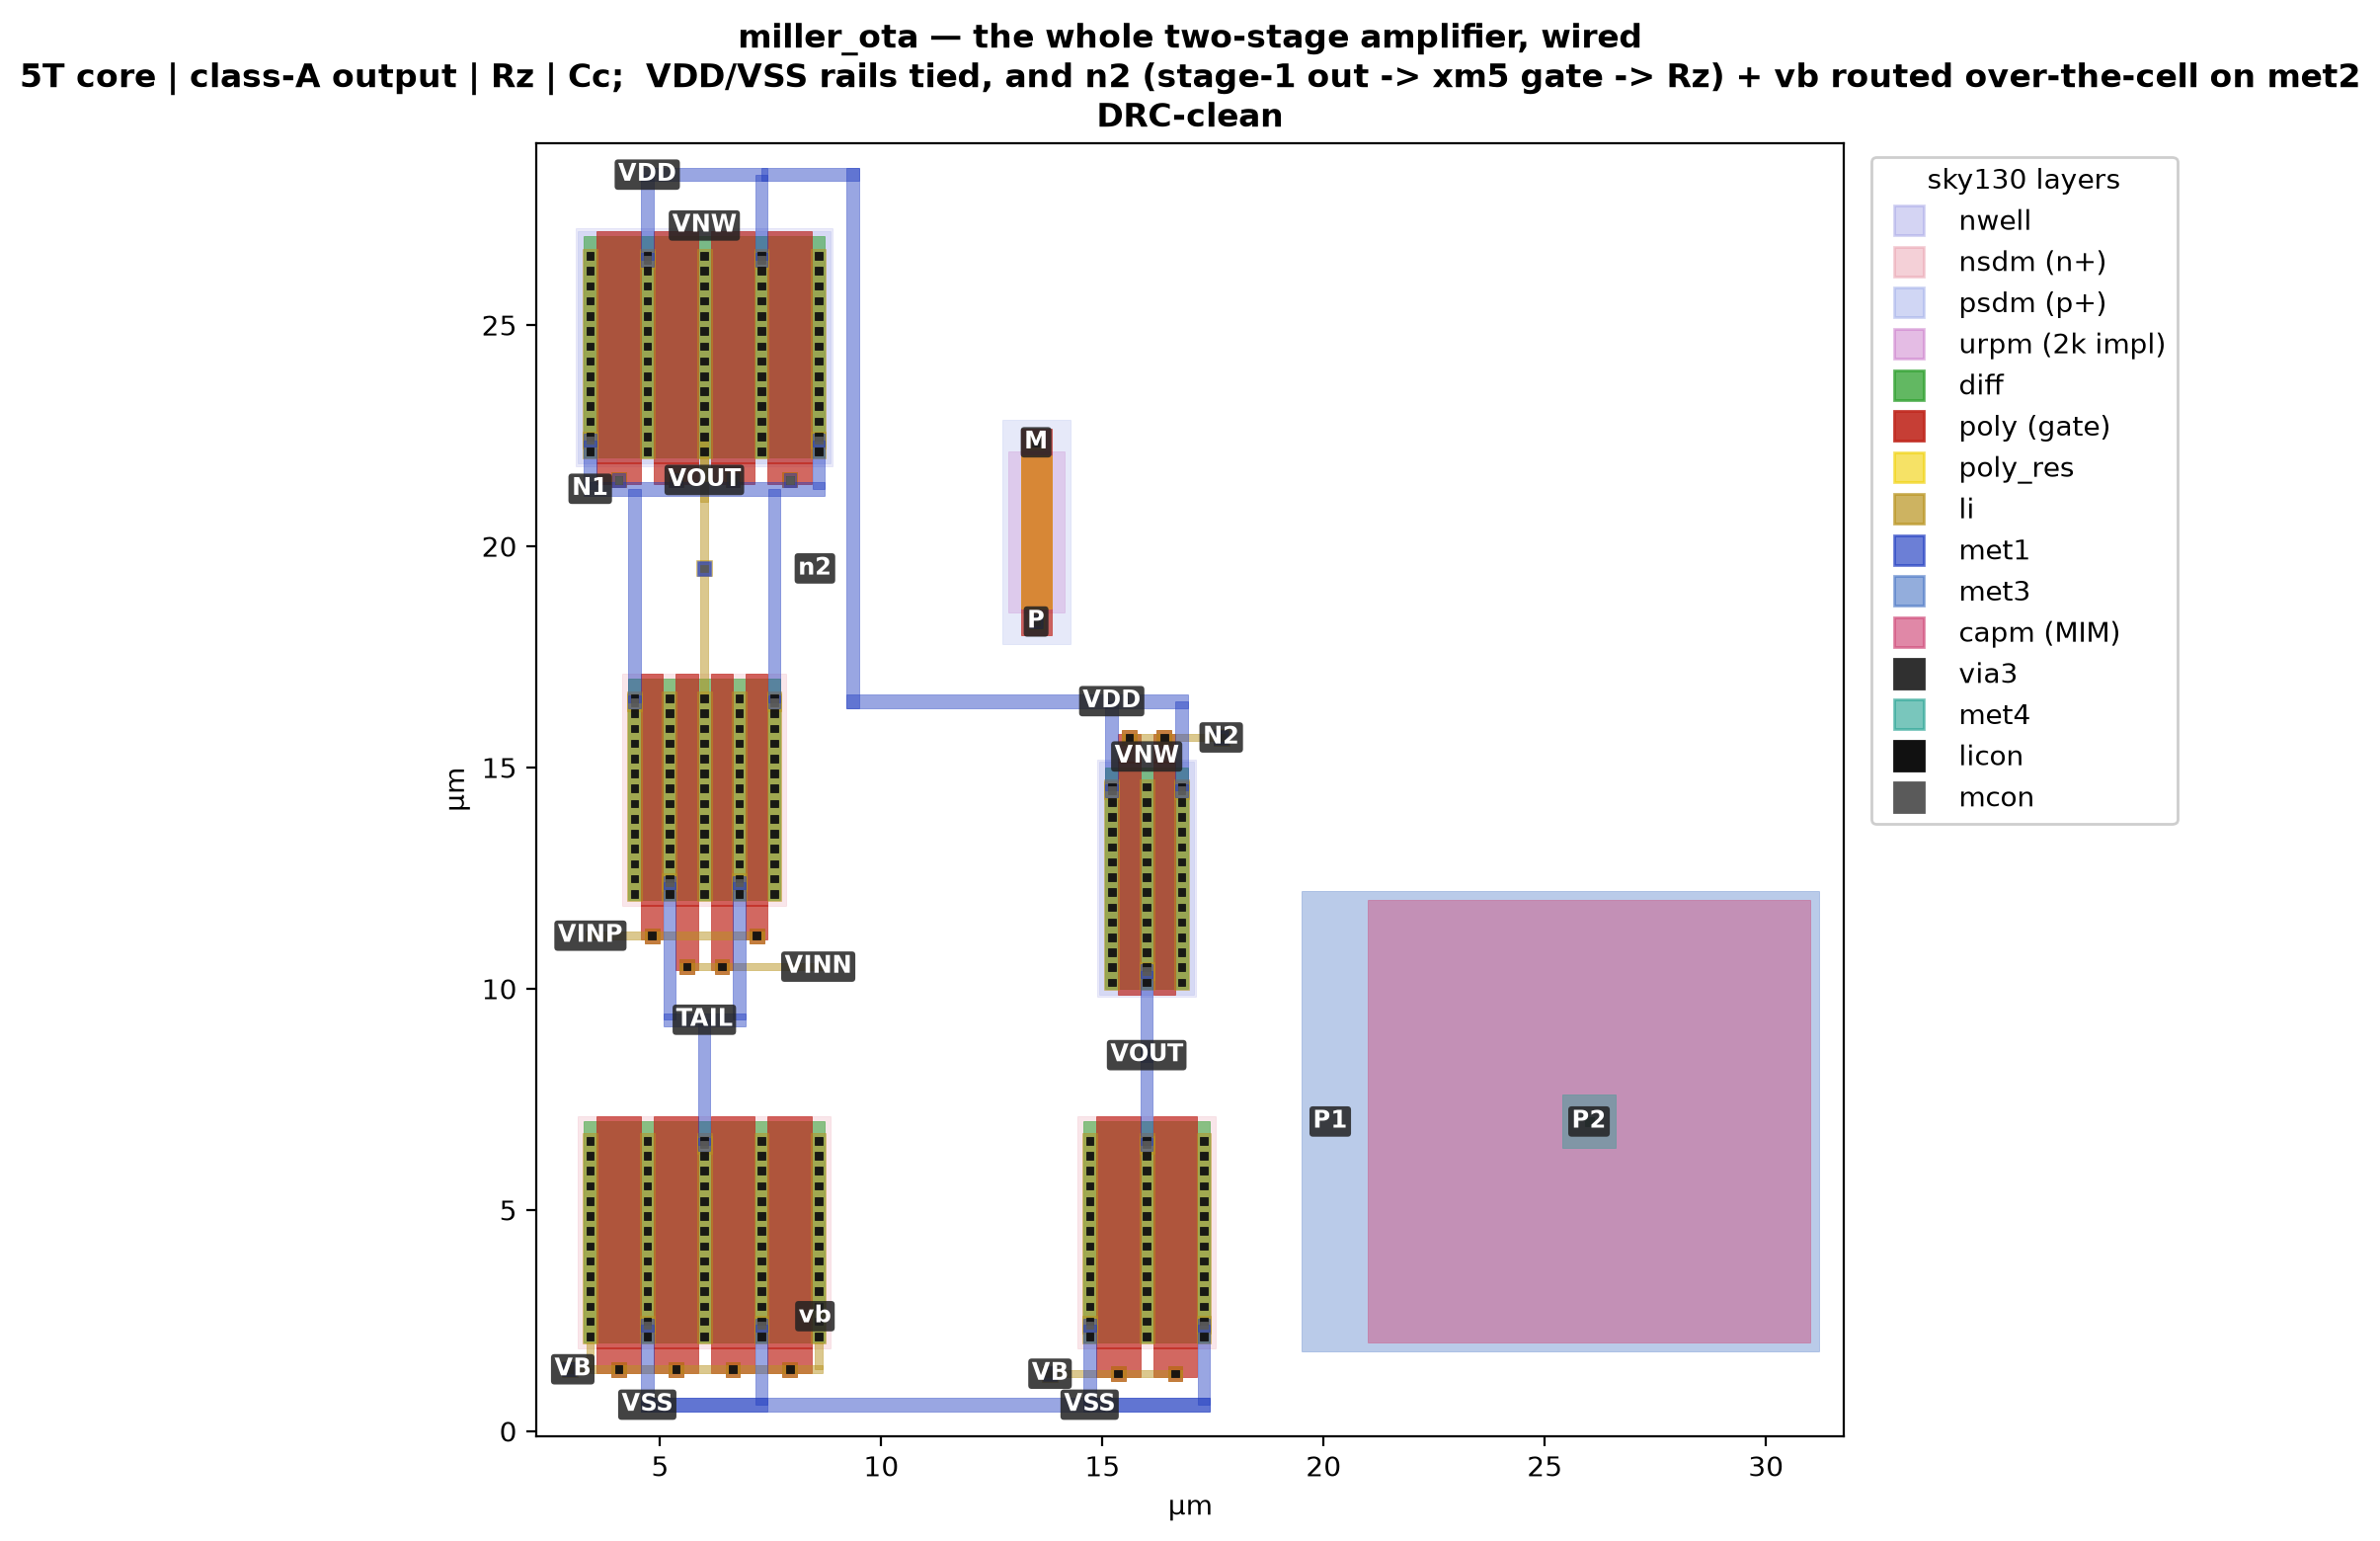
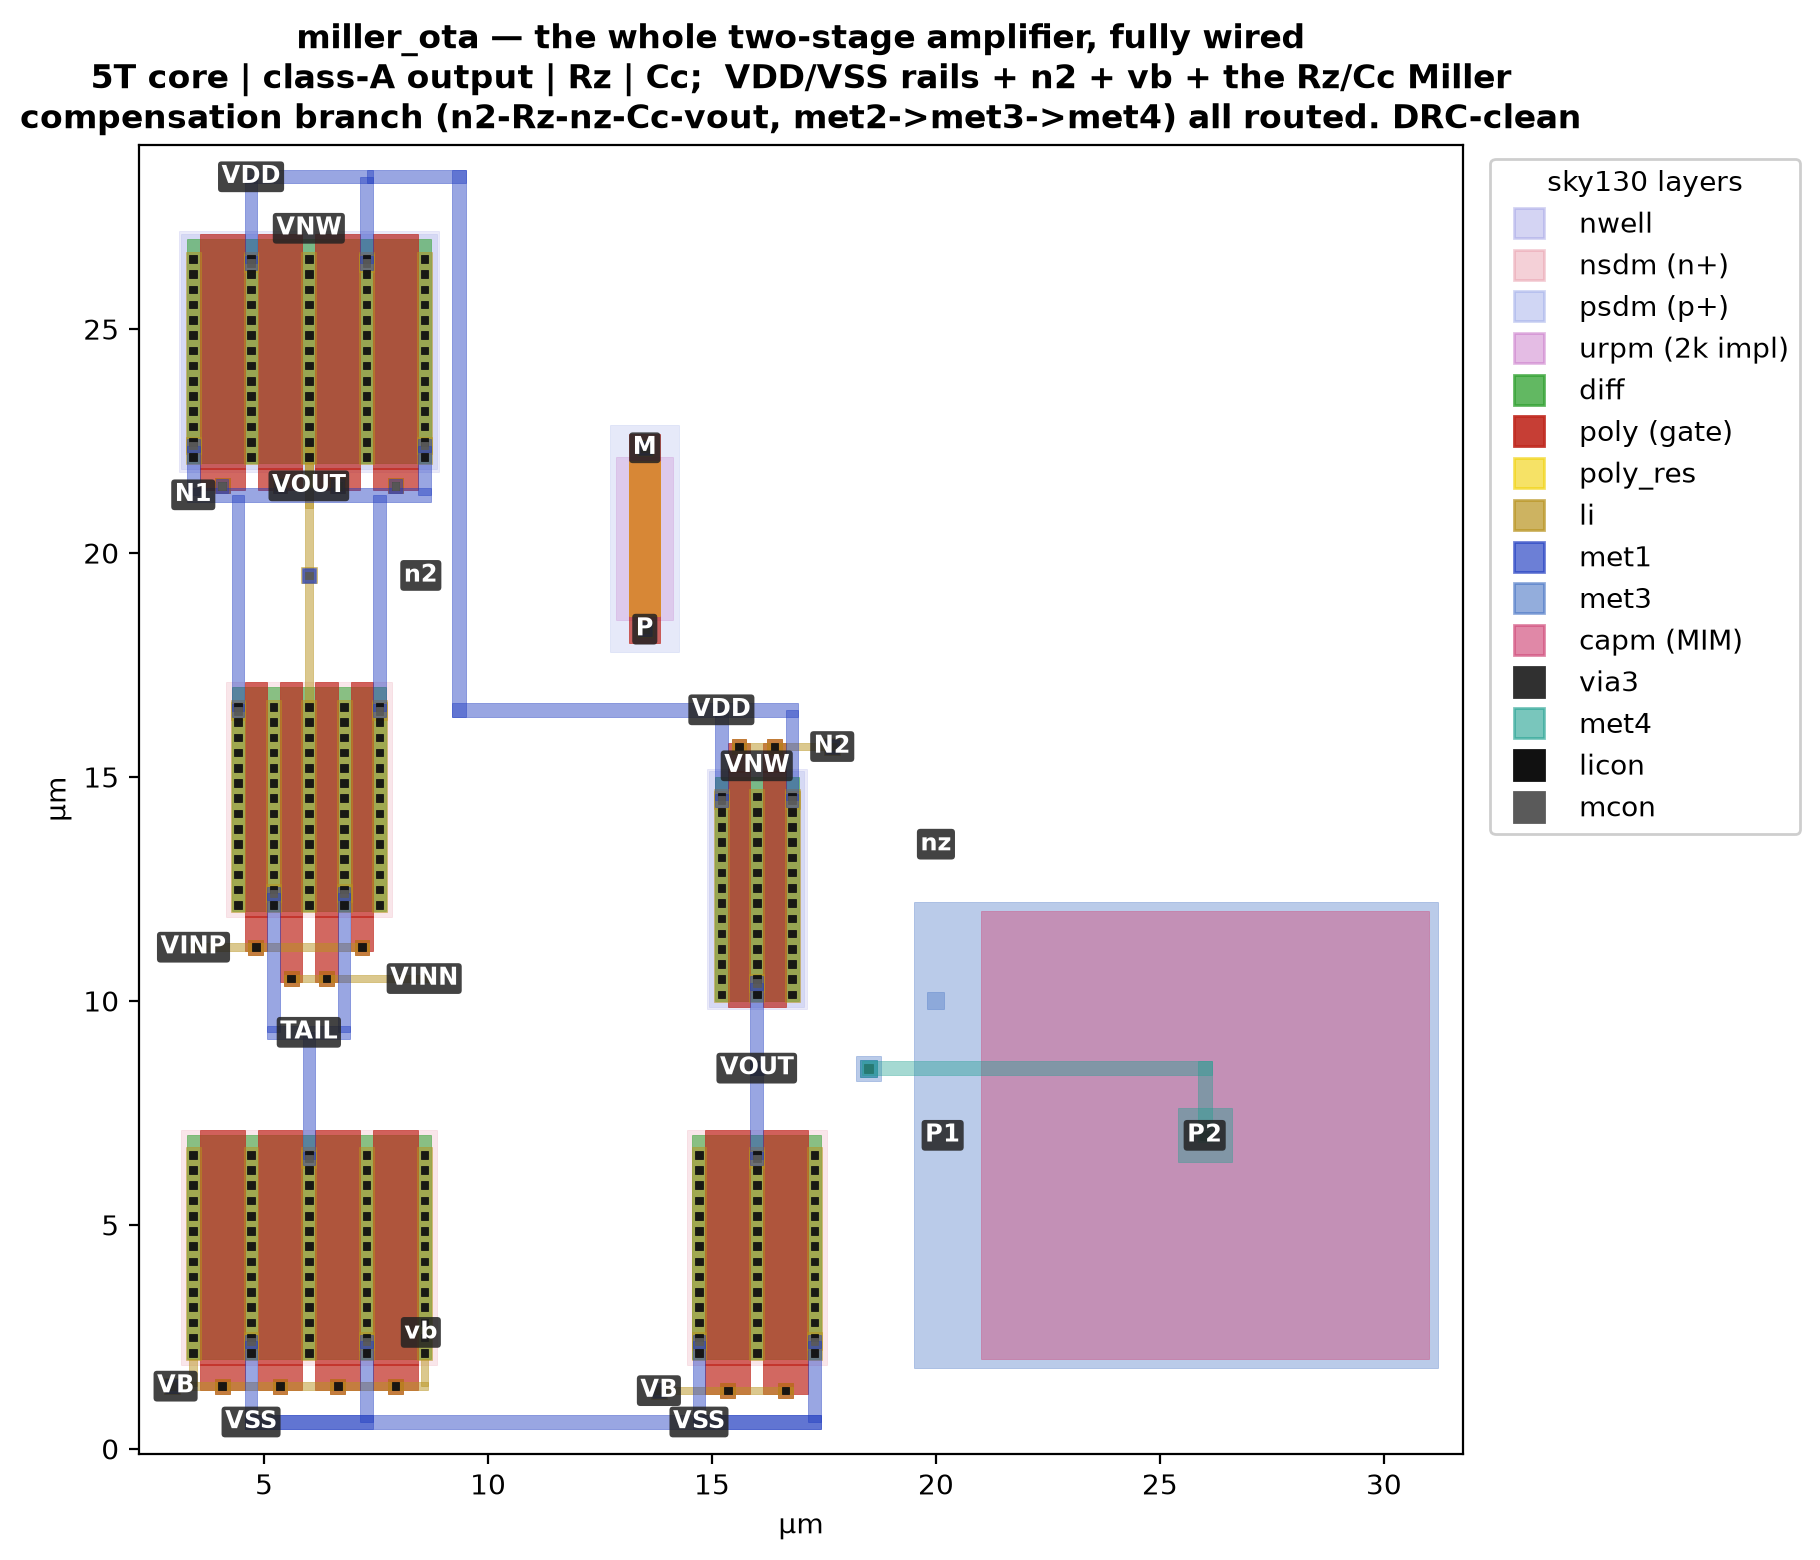
Phase 2: close the Miller compensation branch -- the amp is fully wired
The Rz/Cc compensation branch is now routed, so every net of miller_ota
is connected (n2-Rz-nz-Cc-vout, vb, and the rails), DRC-clean:
  - nz: Rz.M (li) taps up to met2, crosses to the cap, and drops onto the
        Cc bottom plate (met3 P1) through a met2->met3 via2
  - vout: out_stage VOUT (met1) climbs an ISOLATED met2->met3->met4 stack
          placed left of the plate (so it never lands on the met3 bottom
          plate) and crosses on met4 to the Cc top plate (P2)

The compensation branch needed the two metals above met2, so device.py
gains via_met2_met3 and via_met3_met4. Lesson: an isolated upper-metal
via island needs a min-area met3 patch (m3.6, 0.38^2 was too small).

Every net routed; what remains is signoff (whole-amp post-extract, gated
on the KLayout deep-mode extractor erroring on the big flat cell), body
ties, and full-W production sizing. README figure + docs/layout.md + PLAN
updated. verify.py green: 13 cells DRC-clean, 7 LVS-matched, 2 passives
extract-verified.

Claude-Session: https://claude.ai/code/session_01YZz61HuW2quRqnQmP8mkSx

diff --git a/layout/build.py b/layout/build.py
@@ -489,6 +489,25 @@ def build_miller_ota():
     D.strap(top, 2.95 - 0.16, 2.6 - 0.16, 13.815 + 0.16, 2.6 + 0.16, D.MET2)    # across
     D.strap(top, 13.815 - 0.16, 1.3 - 0.16, 13.815 + 0.16, 2.6 + 0.16, D.MET2)  # down
     D.label(top, "vb", 8.5, 2.6, layer=D.MET2LBL)
+
+    # --- the Miller compensation branch: n2 -Rz- nz -Cc- vout -------------
+    # nz: Rz.M (li) up to met2, over to the cap, via2 down onto the Cc bottom
+    # plate (met3 P1, in the plate region left of capm)
+    D.via_li_met2(top, 13.5, 22.35)
+    D.strap(top, 13.5 - 0.16, 22.35 - 0.16, 20.0 + 0.16, 22.35 + 0.16, D.MET2)  # right
+    D.strap(top, 20.0 - 0.16, 10.0 - 0.16, 20.0 + 0.16, 22.35 + 0.16, D.MET2)   # down
+    D.via_met2_met3(top, 20.0, 10.0)                                            # -> P1
+    D.label(top, "nz", 20.0, 13.5, layer=D.MET2LBL)
+    # vout: out_stage VOUT (met1) up to met2, an ISOLATED met2->met3->met4 stack
+    # left of the cap (so it never touches the met3 P1 plate), then met4 across
+    # to the Cc top plate (P2)
+    D.via2(top, 16.0, 8.5)                                          # met1 -> met2
+    D.strap(top, 16.0 - 0.16, 8.5 - 0.16, 18.5 + 0.16, 8.5 + 0.16, D.MET2)      # to stack
+    D.via_met2_met3(top, 18.5, 8.5)
+    D.via_met3_met4(top, 18.5, 8.5)
+    D.strap(top, 18.5 - 0.28, 8.5 - 0.28, 18.5 + 0.28, 8.5 + 0.28, D.MET3)      # met3 min area
+    D.strap(top, 18.5 - 0.16, 8.5 - 0.16, 26.0 + 0.16, 8.5 + 0.16, D.MET4)      # met4 right
+    D.strap(top, 26.0 - 0.16, 7.0 - 0.16, 26.0 + 0.16, 8.5 + 0.16, D.MET4)      # down to P2
     top.flatten()
     lib = gdstk.Library()
     lib.add(top)

diff --git a/layout/device.py b/layout/device.py
@@ -156,6 +156,21 @@ def via_li_met2(cell, xc, yc):
     via2(cell, xc, yc)
 
 
+def via_met2_met3(cell, xc, yc):
+    """met2 <-> met3 via (via2, 69/44 = 0.2), with met2/met3 pads enclosing it by
+    0.09 (via2.5 wants 0.085 on m3)."""
+    _r(cell, VIA2, xc - 0.1, yc - 0.1, xc + 0.1, yc + 0.1)
+    _r(cell, MET2, xc - 0.19, yc - 0.19, xc + 0.19, yc + 0.19)
+    _r(cell, MET3, xc - 0.19, yc - 0.19, xc + 0.19, yc + 0.19)
+
+
+def via_met3_met4(cell, xc, yc):
+    """met3 <-> met4 via (via3, 70/44 = 0.2), pads enclosing by 0.09 (via3.5)."""
+    _r(cell, VIA3, xc - 0.1, yc - 0.1, xc + 0.1, yc + 0.1)
+    _r(cell, MET3, xc - 0.19, yc - 0.19, xc + 0.19, yc + 0.19)
+    _r(cell, MET4, xc - 0.19, yc - 0.19, xc + 0.19, yc + 0.19)
+
+
 def via2(cell, xc, yc):
     """met1 -> met2 via: a VIA (0.15 exact) capped by a met1 pad below and a
     met2 pad above, each enclosing it by 0.085 (0.32 sq). The caller's own met1

diff --git a/layout/plot.py b/layout/plot.py
@@ -105,7 +105,7 @@ if __name__ == "__main__":
            "bottom plate met3 (P1), top plate capm (P2) contacted up via3->met4;"
            " 10x10 um -> ~200 fF\nDRC-clean + extraction-verified: cap_mim "
            "C=2e-13 F", nets=True)
-    render("miller_ota", "miller_ota — the whole two-stage amplifier, wired\n"
-           "5T core | class-A output | Rz | Cc;  VDD/VSS rails tied, and n2 "
-           "(stage-1 out -> xm5 gate -> Rz) + vb routed over-the-cell on met2\n"
-           "DRC-clean", nets=True)
+    render("miller_ota", "miller_ota — the whole two-stage amplifier, fully "
+           "wired\n5T core | class-A output | Rz | Cc;  VDD/VSS rails + n2 + vb "
+           "+ the Rz/Cc Miller\ncompensation branch (n2-Rz-nz-Cc-vout, "
+           "met2->met3->met4) all routed. DRC-clean", nets=True)

diff --git a/docs/layout.md b/docs/layout.md
@@ -109,7 +109,7 @@ local — so nothing has to cross. It extracts to two W=10 PMOS, xm3 diode-tied 
 | `out_stage` (miller stage 2: PMOS CS + NMOS sink, class-A) | **CLEAN** | **MATCH** |
 | `res_rz` (xhigh_po poly resistor, ~10 kΩ) | **CLEAN** | **R=10 kΩ ✓** (extract) |
 | `cap_cc` (MIM cap on met3, ~200 fF) | **CLEAN** | **C=200 fF ✓** (extract) |
-| `miller_ota` (whole amp: 4 blocks + rails/n2/vb wired) | **CLEAN** | — (assembly) |
+| `miller_ota` (whole amp: 4 blocks, **fully wired**) | **CLEAN** | — (assembly) |
 
 **All three sub-blocks of the 5T OTA — the NMOS input pair, the PMOS mirror
 load, and the NMOS tail/bias — are laid out and verified as the right circuit,
@@ -228,32 +228,41 @@ is exactly what matters for devices whose value is the spec.
   clean gap between them;
 - **`n2`**, the inter-stage signal, carries the stage-1 output to the `xm5` gate
   *and* to `Rz.P` (the compensation tap);
-- **`vb`**, the shared bias, ties the stage-1 tail diode to the stage-2 sink gate.
+- **`vb`**, the shared bias, ties the stage-1 tail diode to the stage-2 sink gate;
+- the whole **`Rz`/`Cc` Miller compensation branch** — `n2`–`Rz`–`nz`–`Cc`–`vout`.
 
 The signal nets were the interesting part. Each block's `n2`/`vb`/`N2`/`VB` pins
 are thin (0.17 µm) `li` buried mid-cell — they were never brought to an abutment
-edge — so rather than re-open the blocks, `n2` and `vb` are **routed *over* the
-cells on met2**, which is free above these `li`/`met1` blocks: a via stack taps
-each pin up (li → met1 → met2), the wire runs across on met2, and another stack
-drops down at the far pin. The whole wired cell is **DRC-clean**. This is the
-*"a block does not compose for free"* lesson from the 5T core, one level up — and
-the over-the-cell metal layer is the answer to it at amplifier scale.
+edge — so rather than re-open the blocks, the signals are **routed *over* the
+cells on the upper metals**, which are free above these `li`/`met1` blocks: a via
+stack taps each pin up (li → met1 → met2), the wire runs across on met2, and
+another stack drops down at the far pin. The compensation branch needed the two
+layers *above* that: `nz` taps `Rz.M` up to met2 and drops onto the `Cc` bottom
+plate through a **met2→met3 (via2)**, and `vout` climbs an **isolated
+met2→met3→met4 stack** (placed left of the plate so it never lands on the met3
+bottom plate) and crosses on met4 to the `Cc` top plate. The whole wired cell is
+**DRC-clean**. This is the *"a block does not compose for free"* lesson from the
+5T core, one level up — and the over-the-cell metal stack is the answer to it at
+amplifier scale.
 
-**What's still open on the wiring.** The active signal path (`n2`, `vb`) and the
-rails are routed; the **`Rz`/`Cc` compensation branch** is not yet closed — that
-needs the cap's plates (`Cc` is on met3/met4) tied to `Rz.M` (`nz`) and to `vout`
-through a met2→met3→met4 via stack. And a **whole-amp post-extract** LVS remains
-the signoff (the passives block a device *compare*, and KLayout's deep-mode
-extractor errors on the large flattened multi-block cell — a tooling quirk, not a
-geometry one; every sub-block is individually verified).
+**What remains is the signoff, not the wiring.** Every net of the amplifier is
+routed. A **whole-amp post-extract** LVS is the remaining check — and it is a
+tooling matter, not a geometry one: the passives block a device *compare* (as
+above), and KLayout's deep-mode extractor errors on the large flattened
+multi-block cell. Every sub-block is individually DRC-clean and LVS/extraction-
+verified.
 
 ## What's next
 
-- **Close the compensation branch** — tie `Rz.M` (`nz`) to the `Cc` bottom plate
-  and the `Cc` top plate to `vout`, through a met2 → met3 → met4 via stack (the
-  cap's plates live on the upper metals). The active path (`n2`, `vb`) and the
-  rails are already wired.
+The amplifier is drawn and **fully wired** — every net routed, DRC-clean. What
+remains is signoff and realism, not connectivity:
+
 - **Post-extraction re-simulation** — run the benches again on the parasitic-
-  extracted netlist, the number that actually decides whether the silicon works.
+  extracted netlist, the number that actually decides whether the silicon works
+  (gated on the KLayout deep-mode extractor, which errors on the large flattened
+  cell — likely a hierarchical or per-block extraction instead).
 - **Rail-tie guard rings** (substrate → VSS, nwell → VDD) replace the bulk
   *ports* with real body ties.
+- **Production sizing** — the blocks stand in at scaled W (e.g. W = 10 for the
+  W = 60 output device, ~200 fF for the 4 pF `Cc`); a real tapeout redraws them
+  at full size, which mostly means more fingers / larger plates, not new topology.

diff --git a/README.md b/README.md
@@ -30,9 +30,9 @@ is well under way** — *every device of the two-stage amplifier is now drawn an
 verified*: both active stages (the **5T core** and the **class-A output**) are
 routed and **LVS-clean**, and both passives (the **nulling resistor** and the
 **MIM compensation cap**) are drawn and **extraction-verified** at value; the
-four blocks are then **assembled and wired into the amplifier**
-([see below](#phase-2--layout-the-whole-amplifier-drawn)) — rails, the `n2`
-inter-stage signal and the shared bias routed, DRC-clean. `layout/verify.py`
+four blocks are then **assembled and fully wired into the amplifier**
+([see below](#phase-2--layout-the-whole-amplifier-drawn)) — every net routed
+(rails, `n2`, `vb`, and the whole `Rz`/`Cc` compensation branch), DRC-clean. `layout/verify.py`
 runs the whole DRC + LVS + extract regression green — 12 cells DRC-clean, 7
 LVS-matched, 2 passives extract-verified ([`docs/layout.md`](docs/layout.md)).
 
@@ -253,25 +253,25 @@ It went device → matched pair → stage → amplifier:
 Full blow-by-blow, every layer-coloured figure, and the routing schemes are in
 [`docs/layout.md`](docs/layout.md).
 
-**Next:** close the `Rz`/`Cc` **compensation branch** (the cap's plates live on
-the upper metals — a met2→met3→met4 via stack to `nz` and `vout`) → a whole-amp
-**post-extraction re-simulation**, the number that decides whether the silicon
-works → rail-tie guard rings. A wider-ICMR input (rail-to-rail / complementary
-pair) also stays on the shelf as the path to THD below 0.1 % at full swing. Full
-roadmap in [`PLAN.md`](PLAN.md).
+**Next:** a whole-amp **post-extraction re-simulation** — the number that decides
+whether the silicon works → rail-tie guard rings → production sizing (the blocks
+stand in at scaled W; a tapeout redraws them at full size, mostly more fingers,
+not new topology). A wider-ICMR input (rail-to-rail / complementary pair) also
+stays on the shelf as the path to THD below 0.1 % at full swing. Full roadmap in
+[`PLAN.md`](PLAN.md).
 
-### The whole op-amp, assembled and wired
+### The whole op-amp, assembled and fully wired
 
-Every device of the two-stage Miller amplifier, placed and **wired** as one cell —
-the 5T core (stage 1) on the left, the class-A output (stage 2) beside it, the
-nulling resistor `Rz` and the MIM compensation cap `Cc` to the right. The
-**VDD/VSS rails** are tied across the two stages on met1; **`n2`** — the
-inter-stage signal — carries the stage-1 output to the `xm5` gate and to the
-resistor; and the shared bias **`vb`** ties the two stages' current sources. The
-signal nets are routed *over the cells* on met2 (a via stack taps each buried
-`li` pin up, the wire crosses on met2, another stack drops down) — the answer to
-the *"a block doesn't compose for free"* lesson at amplifier scale. Every block
-is individually DRC-clean and LVS/extraction-verified, and the whole wired cell is
-**DRC-clean**.
+Every device of the two-stage Miller amplifier, placed and **wired** into one
+cell — the 5T core (stage 1) on the left, the class-A output (stage 2) beside it,
+the nulling resistor `Rz` and the MIM compensation cap `Cc` to the right. Every
+net is routed: the **VDD/VSS rails** tied across the stages; **`n2`** carrying the
+stage-1 output to the `xm5` gate and to `Rz`; the shared bias **`vb`**; and the
+whole **`Rz`/`Cc` Miller compensation branch**, `n2`–`Rz`–`nz`–`Cc`–`vout`. The
+signals are routed *over the cells* on the upper metals — a via stack taps each
+buried `li` pin up, the wire crosses on met2 (and met3/met4 for the cap's plates),
+another stack drops down — the answer to the *"a block doesn't compose for free"*
+lesson at amplifier scale. Every block is individually DRC-clean and
+LVS/extraction-verified, and the whole wired cell is **DRC-clean**.
 
-![The whole two-stage Miller op-amp in sky130 layout: the 5T OTA first stage (three stacked common-centroid strips), the class-A output stage, the xhigh_po nulling resistor and the MIM compensation cap; the VDD/VSS rails are tied across the stages and the n2 and vb signals are routed over the cells on metal2. DRC-clean.](docs/img/layout_miller_ota.png)
+![The whole two-stage Miller op-amp in sky130 layout, fully wired: the 5T OTA first stage (three stacked common-centroid strips), the class-A output stage, the xhigh_po nulling resistor and the MIM compensation cap; the VDD/VSS rails, the n2 inter-stage signal, the shared vb bias and the complete Rz/Cc compensation branch are all routed over the cells on metal2/3/4. DRC-clean.](docs/img/layout_miller_ota.png)

diff --git a/PLAN.md b/PLAN.md
@@ -170,9 +170,16 @@ Console roles (why each block exists):
       **over the cells on met2** (via-stack tap up / cross / drop down — the
       answer to the "doesn't compose for free" lesson at amplifier scale), plus
       the VDD/VSS rails tied. **DRC-clean.** device.py += `via_li_met2` tap.
-- [ ] **Close the Rz/Cc compensation branch** (`Rz.M`=`nz` → `Cc` bottom plate,
-      `Cc` top plate → `vout`, via a met2→met3→met4 stack) → **post-extraction
-      re-simulation** (decides the silicon) → rail-tie guard rings.
+- [x] **Rz/Cc compensation branch closed** — the amp is now **fully wired**:
+      `nz` (`Rz.M`) drops onto the `Cc` met3 bottom plate via a met2→met3 (via2);
+      `vout` climbs an isolated met2→met3→met4 stack (left of the plate so it
+      never lands on the bottom plate) and crosses on met4 to the `Cc` top plate.
+      Every net of `miller_ota` routed, **DRC-clean**. device.py += `via_met2_met3`
+      / `via_met3_met4`. Lesson: an isolated upper-metal via island needs a
+      min-area met3 patch (m3.6).
+- [ ] **Whole-amp post-extraction re-simulation** (decides the silicon; gated on
+      the KLayout deep-mode extractor erroring on the big flat cell — try
+      hierarchical/per-block) → rail-tie guard rings → production (full-W) sizing.
 
 ## Phase 3 — comparator
 